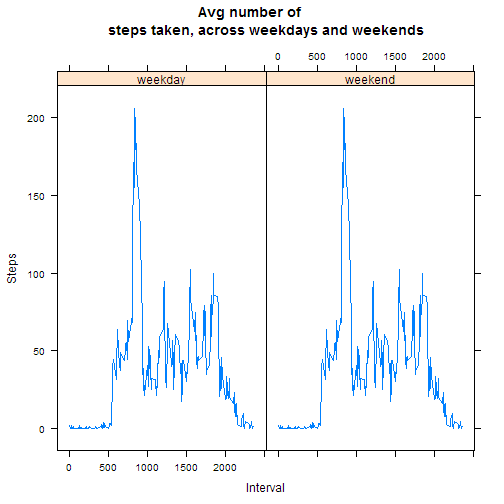
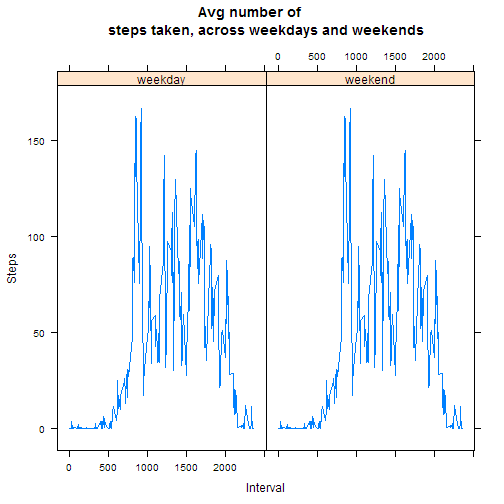
Fixed error in mean number of steps by interval for weekdays and weekends

diff --git a/PA1_template.html b/PA1_template.html
@@ -387,15 +387,34 @@ act2
 <p>average number of steps taken, averaged across (1)all weekdays and 
 (2)all weekends</p>
 
-<pre><code class="r">intMean &lt;- act2[, mean(steps), by = &quot;interval&quot;]
-act2 &lt;- merge(act2, intMean, by = &quot;interval&quot;)
+<pre><code class="r">wkdayMean &lt;- act2[which(day==&quot;weekday&quot;), mean(steps), by = &quot;interval&quot;]
+wkendMean &lt;- act2[which(day==&quot;weekend&quot;), mean(steps), by = &quot;interval&quot;]
+wkdayTable &lt;- merge(act2[which(day==&quot;weekday&quot;)], wkdayMean, by = &quot;interval&quot;)
+wkendTable &lt;- merge(act2[which(day==&quot;weekend&quot;)], wkendMean, by = &quot;interval&quot;)
+act3 &lt;- rbind(wkdayTable, wkendTable)
+act3
+</code></pre>
 
-xyplot(V1 ~ interval | day, data = act2, type = &quot;l&quot;, main = &quot;Avg number of 
+<pre><code>##        interval     steps       date     day       V1
+##     1:        0  1.716981 2012-10-01 weekday 2.251153
+##     2:        0  0.000000 2012-10-02 weekday 2.251153
+##     3:        0  0.000000 2012-10-03 weekday 2.251153
+##     4:        0 47.000000 2012-10-04 weekday 2.251153
+##     5:        0  0.000000 2012-10-05 weekday 2.251153
+##    ---                                               
+## 17564:     2355  0.000000 2012-11-11 weekend 0.134434
+## 17565:     2355  0.000000 2012-11-17 weekend 0.134434
+## 17566:     2355  0.000000 2012-11-18 weekend 0.134434
+## 17567:     2355  0.000000 2012-11-24 weekend 0.134434
+## 17568:     2355  0.000000 2012-11-25 weekend 0.134434
+</code></pre>
+
+<pre><code class="r">xyplot(V1 ~ interval | day, data = x, type = &quot;l&quot;, main = &quot;Avg number of 
        steps taken, across weekdays and weekends&quot;, xlab = &quot;Interval&quot;, 
        ylab = &quot;Steps&quot;)
 </code></pre>
 
[2 lines of base64/hex data omitted]
 
 <p>The max interval seems to be close to the same for both weekdays and weekends, but the overall total number of steps taken seems to be lower for weekends than weekdays.</p>
 

diff --git a/PA1_template.md b/PA1_template.md
@@ -215,10 +215,31 @@ average number of steps taken, averaged across (1)all weekdays and
 
 
 ```r
-intMean <- act2[, mean(steps), by = "interval"]
-act2 <- merge(act2, intMean, by = "interval")
+wkdayMean <- act2[which(day=="weekday"), mean(steps), by = "interval"]
+wkendMean <- act2[which(day=="weekend"), mean(steps), by = "interval"]
+wkdayTable <- merge(act2[which(day=="weekday")], wkdayMean, by = "interval")
+wkendTable <- merge(act2[which(day=="weekend")], wkendMean, by = "interval")
+act3 <- rbind(wkdayTable, wkendTable)
+act3
+```
 
-xyplot(V1 ~ interval | day, data = act2, type = "l", main = "Avg number of 
+```
+##        interval     steps       date     day       V1
+##     1:        0  1.716981 2012-10-01 weekday 2.251153
+##     2:        0  0.000000 2012-10-02 weekday 2.251153
+##     3:        0  0.000000 2012-10-03 weekday 2.251153
+##     4:        0 47.000000 2012-10-04 weekday 2.251153
+##     5:        0  0.000000 2012-10-05 weekday 2.251153
+##    ---                                               
+## 17564:     2355  0.000000 2012-11-11 weekend 0.134434
+## 17565:     2355  0.000000 2012-11-17 weekend 0.134434
+## 17566:     2355  0.000000 2012-11-18 weekend 0.134434
+## 17567:     2355  0.000000 2012-11-24 weekend 0.134434
+## 17568:     2355  0.000000 2012-11-25 weekend 0.134434
+```
+
+```r
+xyplot(V1 ~ interval | day, data = x, type = "l", main = "Avg number of 
        steps taken, across weekdays and weekends", xlab = "Interval", 
        ylab = "Steps")
 ```
